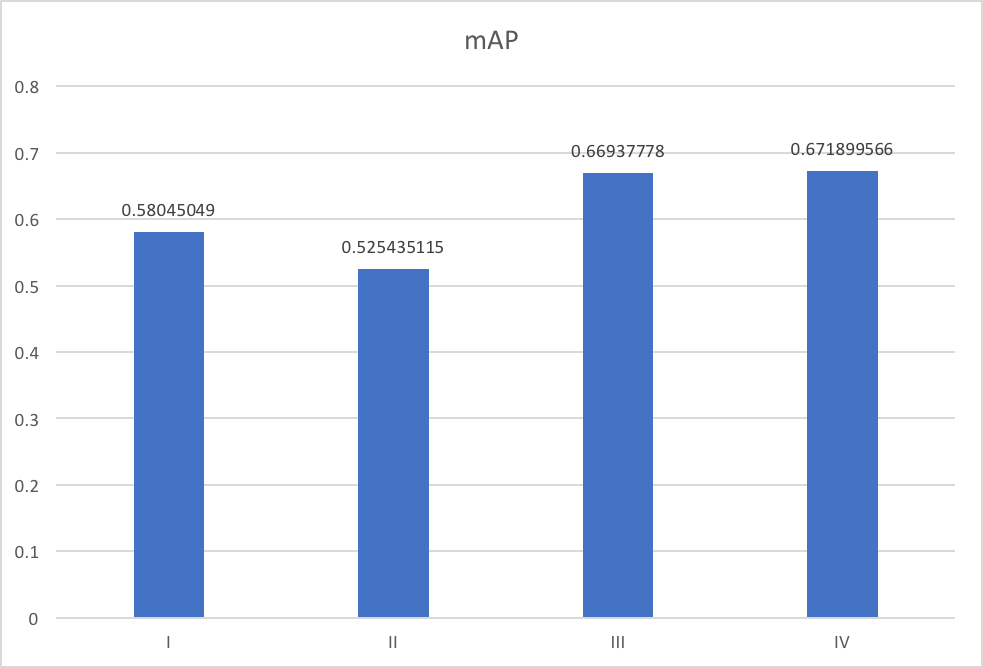
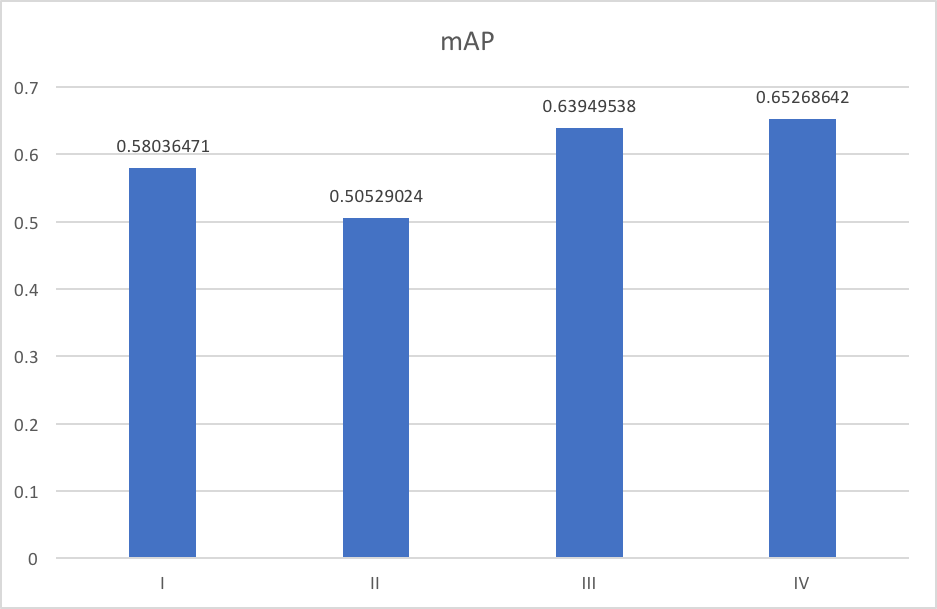
90% report

diff --git a/report/report.tex b/report/report.tex
@@ -542,7 +542,7 @@
 	Hàm lỗi về độ tin cậy có thể được tính theo công thức:
 	\begin{align}
 	L_{conf}(x, c) = - \sum^N_{i \in Pos} x^p_{ij} \log (\hat{c}^p_i) - \sum_{i \in Neg} \log (\hat{c}^0_i)
-	\end{align}
+N_u	\end{align}
 	
 	Với \begin{align}\hat{c}_i^p = \frac{\exp{c_i^p}}{\sum_p \exp{c)i^p}}\end{align}
 	
@@ -685,11 +685,20 @@
 	
 	\newpage
 	\section{Mô hình đề xuất}
-	
+	\label{sec: mohinhdexuat}
 	\subsection{Tổng quan}
-	
-	Nhóm quyết định sử dụng mạng SSD\cite{liu2016ssd} để phát hiện các ký tự trong ảnh và sau đó sử dụng bộ phân tích cú pháp DRACULAE\cite{zanibbi} để sinh ra chuỗi Latex.
-	
+	Để giải quyết đề tài, nhóm chọn hướng tiếp cận là thực hiện tuần tự 2 quá trình nhận dạng ký tự và phân tích cấu trúc. Quy trình thực hiện như hình bên dưới.
+	\begin{center}
+		
+		\centering
+		\includegraphics[width=0.8\linewidth]{overview}
+		\vspace{0.5cm}
+		\captionof{figure}{Mô hình phương pháp.}
+	\end{center}
+	\begin{itemize}
+		\item Ở bước nhận dạng ký tự, ảnh đầu vào là ảnh xám sẽ qua mạng SSD\cite{liu2016ssd} để tạo ra một danh sách các nhãn và bounding box được kỳ vọng là tương ứng với các ký tự có trong ảnh.
+		\item Với giai đoạn phân tích cấu trúc, từ danh sách nhãn và bounding box trả ra từ giai đoạn trước, sử dụng bộ phân tích cấu trúc DRACULAE \cite{zanibbi} để sinh ra chuỗi Latex.
+	\end{itemize}
 	\subsection{Nhận diện ký tự}
 	
 	\subsubsection{Mạng cơ sở}
@@ -973,7 +982,7 @@
 	\end{itemize}
 	\subsubsection{Xây dựng tập biểu thức}
 	Để phục vụ quá trình huấn luyện của mạng SSD được nêu trong Chương 4, ngoài tập ký tự nhóm cần phải xây dựng thêm tập ảnh các biểu thức Toán học viết tay.\\
-	\subsubsubsection{Quá trình thu thập dữ liệu bao gồm các công việc:}
+	\subsubsubsection{Quá trình thu thập dữ liệu}
 	\begin{itemize}
 		\item Tạo biểu mẫu để thu dữ liệu. Biễu mẫu này có 6 hàng và 2 cột như hình bên dưới. 
 		\begin{center}
@@ -997,7 +1006,7 @@
 			\vspace{0.5cm}
 			\captionof{figure}{Ví dụ một mẫu thu thập được từ người tham gia viết.}
 		\end{center}
-		\item Tập hợp lại các biểu mẫu sau khi cho người tham gia viết rồi mang đi scan. Sau đó xử lý qua một đoạn mã Matlab\cite{qak}\footnote{Đoạn mã này đã được chỉnh sửa để phù hợp với hình dạng mẫu lấy biểu thức của nhóm.} để từ một ảnh gồm nhiều biểu thức thu được ảnh chỉ chứa đúng một biểu thức như hình bên dưới.
+		\item Tập hợp lại các biểu mẫu sau khi cho người tham gia viết rồi mang đi scan. Sau đó xử lý qua một đoạn mã Matlab\cite{qak}\footnote{Đoạn mã này đã được chỉnh sửa để phù hợp với hình dạng mẫu lấy biểu thức của nhóm.} để từ một ảnh gồm nhiều biểu thức thu được ảnh chỉ chứa đúng một biểu thức như hình bên dưới. Ảnh này là ảnh xám, với kích thước $300\times300$.
 		\begin{center}
 			\centering
 			\includegraphics[width=0.5\linewidth]{EXP_2017_072_2A.png}
@@ -1012,10 +1021,15 @@
 			\captionof{figure}{Giao diện công cụ hỗ trợ quá trình gán nhãn và xác định bounding boxes. }
 		\end{center}
 	\end{itemize}
-	\subsubsubsection{Thông tin mô tả tập dữ liệu biểu thức:}
+	\subsubsubsection{Thông tin mô tả tập dữ liệu biểu thức}
 	\begin{itemize}
 		\item Số người tham gia: khoảng 88 
 		\item Số lượng ảnh\footnote{Mỗi ảnh chỉ chứa một biểu thức.}:  2256. Trong đó có 1746 ảnh dùng cho training, 138 ảnh dùng cho quá trình validation và 372 ảnh để test.
+		Trong đó, 372 ảnh test được thu thập từ 2 nguồn:
+		\begin{itemize}
+		 	\item 192 ảnh được viết bởi người chưa từng tham gia viết cho quá trình thu thập ảnh cho huấn luyện.
+		 	\item 102 ảnh còn lại được viết bởi 15 người đã tham gia quá trình thu thập ảnh cho huấn luyện.
+		\end{itemize}
 		\item Số loại biểu thức: khoảng 552
 		\item Tổng số ký tự trong tập huấn luyện: 13697
 		\item Tổng số ký tự trong tập kiểm tra: 2237
@@ -1023,16 +1037,18 @@
 	\end{itemize}
 	Hình minh hoạ cho sự phận phối số lượng ký tự trong từng nhãn đối với tập huấn luyện và tập kiểm tra.
 	\begin{figure}
+	
 		\includegraphics[width=0.475\linewidth]{train_statis.png}
 		\hfill
 		\includegraphics[width=0.475\linewidth]{test_statis.png}
 		\vspace{0.5cm}
 		\captionof{figure}{Sự phân phối ký tự theo từng nhãn đối với tập huấn luyện và tập kiểm tra.}
+		\label{fig: distribution}
 	\end{figure}
 	
 	\newpage
 	\subsection{Xây dựng mô hình}
-	
+	\label{subsec: xaydungmohinh}
 	Do bản chất mạng SSD300\cite{liu2016ssd} gặp rất nhiều khó khăn trong việc nhận dạng ký tự nhỏ do một số lý do:
 	\begin{itemize}
 		\item Trong quá trình matching, các bounding box ground truth khi match với các default box phải có chỉ số Jaccard\cite{Jaccard} lớn hơn 0.5, nhưng kích thước tối thiểu của default box lại là $30 \times 30$ pixel, vì vậy nhiều ký tự nhỏ không thể match được (Trường hợp này xãy ra với hầu hết những ảnh có chữ nhỏ, ví dụ như ảnh dưới)
@@ -1046,15 +1062,12 @@
 		
 		\item Nhiều ký tự có aspect ratio đặc biệt (Ví dụ như ký tự dấu $-$ trong phân số hoặc $\int$) cũng gặp nhiều khó khăn trong việc matching do không đạt được ngưỡng Jaccard\cite{Jaccard}.
 	\end{itemize}
-	
-	Vì vậy, nhóm đã sửa một số thông số để tìm cách giải quyết vấn đề trên, trong nhiều bộ thông số thì có 3 phiên bản nổi bật sẽ được đặc tả bên dưới. Để thuận tiện, nhóm xin phép được đặt tên phiên bản SSD300 nguyên thủy\cite{liu2016ssd} là phiên bản I, và 3 phiên bản được dể xuất sau được đặt tên lần lượt là phiên bản II, III, IV.
+	Vì vậy, nhóm đã sửa một số thông số để tìm cách giải quyết vấn đề trên, trong nhiều bộ thông số thì có 3 phiên bản nổi bật sẽ được đặc tả bên dưới. Để thuận tiện, nhóm xin phép được đặt tên phiên bản SSD300 nguyên thủy\cite{liu2016ssd} với sự thiết lập đã được giới thiệu trong \ref{sec: mohinhdexuat} là phiên bản I, và 3 phiên bản được dể xuất sau được đặt tên lần lượt là phiên bản II, III, IV.
 	
 	\subsubsection{Giảm kích thước các default box - Phiên bản II}
 	
 	Phiên bản này dựa trên phiên bản SSD300 nguyên thủy\cite{liu2016ssd}, chỉ chỉnh sửa kích thước các bounding box thông qua chỉnh hai thông số $s_{min} = 0.08$ và $s_{max} = 0.5$, từ đó danh sách kích thước các default box được thay đổi thành (9, 24, 54, 84, 114, 144, 174). So với phiên bản nguyên thủy, phiên bản này không thể match tốt các ký tự lớn (lớn hơn khoảng $200 \times 200$ pixel). Tuy vậy, đối với bài toán về phát hiện các ký tự trong một ảnh, thì kích thước các ký tự không thể quá lớn, nên những ký tự đặc biệt lớn như vậy có thể được xem xét ở độ ưu tiên thấp hơn.\\
-	
 	Việc thay đổi tham số ở phiên bản này không làm ảnh hưởng lớn đến cấu trúc mạng cũng như quá trình mã hóa, giải mã. Số lượng dự đoán không thay đổi.\\
-	
 	Mục đích chính của thay đổi này là để quá trình matching diễn ra tốt hơn khi kích thước của default box nhỏ nhất là $9 \times 9$, điều này giúp cho những ký tự rất nhỏ vẫn có thể được match, tránh hiện tượng bỏ sót ký tự như mạng SSD300 nguyên thủy\cite{liu2016ssd}.
 	
 	\subsubsection{Giảm kích thước các default box và tăng kích thước ảnh đầu vào - Phiên bản III}
@@ -1064,7 +1077,6 @@
 		\item Thay vì sử dụng ảnh $300 \times 300$ như nguyên thủy, ảnh sẽ được phóng to lên kích thước $500 \times 500$.
 		\item Như ở phiên bản đề xuất trước, nhóm thay đổi $s_{min} = 0.08$ và $s_{max} = 0.5$ từ đó thu được danh sách kích thước (15.0, 40, 80, 120, 160., 200, 240, 280).
 	\end{itemize}
-	
 	Những thay đổi trên có làm thay đổi đến cấu trúc mạng SSD\cite{liu2016ssd}, khi tăng kích thước ảnh đầu vào nghĩa là kích thước của các feature map thu thập được cũng tăng lên, từ đó kéo số lượng dự đoán trong một ảnh tăng lên như bảng dưới.\\
 	
 	\begin{center}
@@ -1087,7 +1099,6 @@
 		\end{tabular}
 		\captionof{table}{Thông tin của các feature map trích được từ mạng SSD đã giảm kích thước default box và tăng kích thước ảnh đầu vào}
 	\end{center}
-	
 	Như vậy với mỗi ảnh, hệ thống sinh ra 24148 dự đoán, gấp gần 3 lần so với ảnh SSD300 nguyên thủy\cite{liu2016ssd}. Với những thay đổi này bounding box thậm chí còn có thể match với những default box nhỏ hơn, bên cạnh đó, mật độ các default box cũng dày đặc hơn nhiều so với mạng SSD nguyên thủy\cite{liu2016ssd}.
 	
 	\subsubsection{Giảm kích thước các default box, tăng kích thước ảnh đầu vào và thêm lớp tích chập - Phiên bản IV}
@@ -1132,7 +1143,6 @@
 		\end{tabular}
 		\captionof{table}{Thông tin của các feature map trích được từ mạng SSD\cite{liu2016ssd} đã giảm kích thước default box, tăng kích thước ảnh đầu vào và tăng số lớp tích chập}
 	\end{center}
-	
 	Lớp Conv\_12 được thêm vào cuối mạng với mục đích tăng độ dài danh sách feature map đưa vào lớp Multibox, điều này giúp trong quá trình matching, các ký tự lớn hơn có thể được match.
 	
 	\subsection{Xây dựng bản thử nghiệm}
@@ -1174,10 +1184,8 @@
 		\item Giảm kích thước bounding box sẽ khiến cho các ký tự lớn "bị hổng", do các bounding box quá lớn khi tính chỉ số Jaccard\cite{Jaccard} với các default box quá nhỏ sẽ không đủ ngưỡng, vì vậy mạng không thể match được các ký tự lớn, từ đó mạng cũng không thể nhận diện các ký tự lớn.
 		\item Mạng có thể nhận diện được các ký tự nhỏ hơn, tuy nhiên các ký tự này cũng không đủ nhỏ để bao phủ phần lớn các ký tự nhỏ có trong tập dữ liệu.
 	\end{itemize}
-	
-	Vì vậy, qua thực nghiệm, phiên bản II đưa ra dự đoán về ký tự nhỏ tốt hơn phiên bản I một ít, nhưng kết quả vẫn còn rất tệ. Tuy vậy đối với những ký tự lớn, phiên bản II tỏ ra yếu hơn so với phiên bản I.
-	
-	Ngược lại với phiên bản II, kết quả của phiên bản III và IV khá tốt, hệ thống đã có thể nhận diện nhiều ký tự rất nhỏ và tương đối chuẩn xác, phiên bản IV hầu như không thua kém phiên bản I trong việc nhận diện ký tự lớn, một số ký tự phiên bản I nhận diện được nhưng phiên bản IV không thể và ngược lại. Để hoàn thiện phiên bản III, IV trong việc nhận diện ký tự lớn, nhóm có đề xuất một hướng đi trong tương lai để cải thiện khả năng nhận diện ký tự lớn này.
+	Vì vậy, qua thực nghiệm, phiên bản II đưa ra dự đoán về ký tự nhỏ tốt hơn phiên bản I một ít, nhưng kết quả vẫn còn rất tệ. Tuy vậy đối với những ký tự lớn, phiên bản II tỏ ra yếu hơn so với phiên bản I.\\
+	Ngược lại với phiên bản II, kết quả của phiên bản III và IV khá tốt, hệ thống đã có thể nhận diện nhiều ký tự rất nhỏ và tương đối chuẩn xác, phiên bản IV hầu như không thua kém phiên bản I trong việc nhận diện ký tự lớn, một số ký tự phiên bản I nhận diện được nhưng phiên bản IV không thể và ngược lại. Để hoàn thiện phiên bản III, IV trong việc nhận diện ký tự lớn, nhóm có đề xuất một hướng đi trong tương lai để cải thiện khả năng nhận diện ký tự lớn này.\\
 	
 	\begin{center}
 		\centering
@@ -1211,10 +1219,6 @@
 		\captionof{figure}{Kết quả dự đoán của 4 phiên bản. Khả năng nhận diện ký tự lớn giảm mạnh ở phiên bản II.}
 	\end{center}
 	
-	
-	
-	
-	
 	\begin{center}
 		\centering
 		\includegraphics[width=0.775\linewidth]{compare_5.png}
@@ -1222,8 +1226,6 @@
 		
 		\captionof{figure}{Kết quả dự đoán của 4 phiên bản. Khả năng nhận diện ký tự lớn ở phiên bản IV không thua kém phiên bản I.}
 	\end{center}
-	
-	
 	Đặc biệt, có nhiều biểu thức có ký tự rất nhỏ nhưng phiên bản IV đã làm việc rất tốt:
 	
 	\begin{center}
@@ -1242,7 +1244,7 @@
 		\item Kích thước default boxes.
 		\item Số lượng default boxes.
 	\end{itemize}
-	Thông tin cụ thể như bảng bên dưới.
+	Thông tin cụ thể đã được trình bày ở phần \ref{subsec: xaydungmohinh} của chương này, bên dưới là bảng tóm tắt.
 	\begin{center}
 		\begin{tabular}{||c | c | c | c | c||} 
 			\hline
@@ -1259,8 +1261,19 @@
 	\end{center}
 	Điều kiện đánh giá:
 	\begin{itemize}
-		\item Cùng một tập ảnh kiểm tra với 372 ảnh. Phân phối số lượng ký tự trên từng nhãn của tập ảnh kiểm tra được thể hiện trong Hình 16.
-		\item Độ đo sử dụng: mAP
+		\item Cùng một tập ảnh kiểm tra với 372 ảnh. Phân phối số lượng ký tự trên từng nhãn của tập ảnh kiểm tra được thể hiện trong Hình \ref{fig: distribution}.
+		\item Độ đo sử dụng: mAP\\
+		Cách tính:\\ Tính precision cho từng nhãn theo công thức\cite{mAP}:
+		\begin{align}
+		precision = \frac{TP}{TP+FP},
+		\end{align}
+		\hspace{2cm}với $TP$ được viết tắt từ $True Positive$\cite{mAP} và $FP$ từ $False Positive$\cite{mAP}.\\
+		Tính trọng số của từng nhãn trong tập dữ liệu kiểm tra theo công thức:
+		\begin{align}
+		class\_weight_i = \frac{N_i}{\sum_{u=0}^{106}N_u},
+		\end{align}
+		\hspace{2cm}với $N_i$ là số lượng ký tự thuộc nhãn $i$.\\
+		mAP là trung bình có trọng số giữa $precision$ và $class\_weight$.
 		\item Điều kiện máy chạy đánh giá:
 		\begin{itemize}
 			\item Hệ điều hành:
@@ -1269,32 +1282,38 @@
 		\end{itemize}
 	\end{itemize}
 	Kết quả đánh giá của 4 phiên bản:
+	\vspace{0.5cm}
 	\begin{center}
 		\begin{tabular}{||c | c | c | c | c||} 
 			\hline
 			phiên bản & I&II&III&IV\\[0.5ex] 
 			\hline\hline
-			mAP&0.58045049&0.525435115&0.66937778&0.671899566\\
+			mAP&0.58036471&0.505290245&0.63949538&0.65268642\\
 			\hline
-			\makecell{Số lượng ký tự\\ nhận dạng được\footnote{Không xét đến sự đúng sai.}}&1581&1054&1837&1920\\
+			\makecell{Số lượng ký tự\\ nhận dạng được}&1581&1054&1837&1920\\
+			\hline
+			\makecell{Số file ảnh\\ không xử lý được}&4/372&8/372&0/372&0/372\\
 			\hline
 		\end{tabular}
 		\captionof{table}{Kết quả mAP của 4 phiên bản thử nghiệm.}
 	\end{center}
+	\vspace{1.5cm}
 	\begin{center}
 		\centering
 		\includegraphics[width=0.775\linewidth]{mAP.png}
 		\vspace{0.5cm}
-		
 		\captionof{figure}{Trực quan kết quả mAP cho 4 phiên bản thử nghiệm.}
 	\end{center}
-	
+	Như vậy, từ mô hình ban đầu- mô hình I- với những thiết lập được giữ y nguyên như \cite{liu2016ssd}, nhóm đã thay đổi để tạo ra được mô hình IV- mô hình tốt nhất của nhóm. Từ đó nâng chỉ số mAP từ khoảng $58\%$ lên khoảng $65\%$. Nhìn vào đánh giá giữa 4 mô hình, rõ ràng thấy được việc thay đổi kích thước ảnh đầu vào và kích thước default box có tác động mạnh đến việc cải thiện độ chính xác của phương pháp. 
 	%%%%%%%%%%%%%%%%%%%%%%%%%%%%%%%%%%%%%
 	%%%%%%%%%%%%%%%%%%%%%%%%%%%%%%%%%%%%%
 	\newpage	
 	\section{Tổng kết}
 	
 	\subsection{Kết luận}
+	Hệ thống nhận dạng biệu thức toán học viết tay mà nhóm đang xây dựng là bước đầu cho một ứng dụng tiện ích sau này đối với các bạn học sinh, sinh viên cũng như với những giáo viên- những người thường xuyên tiếp xúc với các con số, công thức và mong muốn rằng có một sản phẩm nào đó hỗ trợ giải các bài toán không chỉ bằng cách đưa ra đáp số mà còn là hướng dẫn giải từng bước, vẽ đồ thị hàm số hay thậm chí cho phép tương tác lên hình ảnh đồ thị đó, gợi ý họ những đoạn lệnh Latex hay có thể là một ngôn ngữ tương tự từ ảnh của những biểu thức để tiết kiệm thời gian soạn thảo những công thức dài và phức tạp. Ngoài ra, với việc có thể trực quan những đồ thị hàm số hay hướng dẫn giải một số loại bài toán sẽ giúp cho việc dạy và học trở nên sinh động và thuận lợi hơn. Như vậy, rất rất nhiều những ứng dụng có thể phát triển từ hệ thống nhận dạng mà nhóm đang thực hiện. \\
+	Với hệ thống này, nhóm đã sử dụng phương pháp phát hiện và nhận dạng của mạng SSD thay vì những phương pháp phân tách phổ biến như phân tích hình chiếu, phân tích thành phần liên thông để khắc phục những lỗi sai có thể xảy ra khi gặp những ký tự dính nhau, bọc lấy nhau kết hợp với bộ phân tích cấu trúc DRACULAE, hệ thống sẽ giải quyết được nhiều loại công thức phức tạp hơn như những công thức có chứa chỉ số trên, chỉ số dưới,... 
+	Ngoài ra, trong quá trình thực hiện đề tài, nhóm đã phát triển 2 tập dữ liệu viết tay bao gồm 1 tập các ký tự và 1 tập những biểu thức từ đơn giản đến phức tạp. Với tập ký tự, dữ liệu đã lên tới con số 52353 file ảnh còn đối với tập biểu thức, hiện tại nhóm đã có 2256 ảnh. Đây là điều kiện quan trọng để nhóm có thể thực hiện những bước huấn luyện, đánh giá mô hình và cũng là cơ sở cho những đề tài liên quan đến chữ viết tay. 
 	\subsection{Đánh giá ưu, nhược điểm}
 	
 	\subsubsection{Ưu điểm}
@@ -1314,14 +1333,37 @@
 		\item Các ký tự hoàn toàn trùng lên nhau dễ bị bỏ sót (dấu căn).
 	\end{itemize}
 	\subsection{Hướng phát triển trong tương lai}
+	Đến thời điểm kết thúc luận văn, hệ thống mà nhóm xây dựng vẫn còn tồn tại những khuyết điểm và cả những trường hợp mà nhóm chưa có thời gian để kiểm tra. Trong đó nổi lên 2 vấn đề mà nhóm đã tiến hành giải quyết thử và thu được kết quả tốt là việc thu nhỏ nội dung ảnh để có thể khắc phục lỗi sai mà hệ thống mắc phải khi gặp những ký tự quá lớn và tăng cường thêm dữ liệu để giải quyết trực tiếp vô trường hợp chỉ số dưới của 2 ảnh trong tập test không nhận diện được. Ngoài ra vẫn còn nhiều trường hợp khác nữa mà theo nhóm đó là hướng phát triển trong tương lai của đề tài. 
 	
-	Hệ thống còn nhiều điểm có thể cải thiện thêm, trong đó có hai vấn đề nổi bật là mở rộng tập dữ liệu về cả số lượng ảnh và số lượng nhãn và thêm công đoạn tiền xử lý.
+	\subsubsection{Mở rộng tập dữ liệu biểu thức}
+	Trong quá trình đánh giá hệ thống trên tập kiểm tra với mô hình IV, nhóm nhận thấy đối với 2 ảnh bên dưới hệ thống không nhận dạng được chỉ số dưới- cụ thể là số 1. 
+		\begin{center}
+		\centering
+		\includegraphics[width=0.6\linewidth]{M1E1}
+		\vspace{0.5cm}
+		\captionof{figure}{Trường hợp không nhận được chỉ số dưới.}
+		\label{fig: m1}
+	\end{center}
+	Trên nhận định lý do của vấn đề này là do trong tập huấn luyện số lượng mẫu với chỉ số dưới còn ít và thiếu những mẫu mà chỉ số dưới dính vào hệ số của nó, nhóm đã bổ sung thêm 96 ảnh với nội dung cố định là $E_1$ và $M_1$ vào tập huấn luyện và 24 ảnh để kiểm tra với hy vọng sau khi huấn luyện lại với lượng ảnh bổ sung thì tình trạng trong Hình \ref{fig: m1} sẽ được giải quyết.\\
+	Sử dụng kiến trúc mạng theo mô hình IV, sau quá trình huấn luyện với tập dữ liệu đã được thêm mới, nhóm thu được kết quả là cả 24 ảnh kiểm tra đều được nhận dạng đúng.
+	\vspace{1cm}
+	\begin{center}
+		\centering
+		\includegraphics[width=0.7\linewidth]{subfolder}
+		\vspace{0.5cm}
+		\captionof{figure}{ Kết quả nhận dạng chỉ số dưới trên bộ ảnh test mới.}
+	\end{center}
+	Và kết quả trên 2 ảnh gặp lỗi ở Hình \ref{fig: m1}:
+	\begin{center}
+		\centering
+		\includegraphics[width=0.7\linewidth]{M1E1_res}
+		\vspace{0.5cm}
+		\captionof{figure}{ Kết quả nhận dạng sau khi được huấn luyện với dữ liệu bổ sung.}
+	\end{center}
+	Có thể nhận thấy được rằng, ký tự tại vị trí dấu gạch đỏ ở hình bên trái đã được nhận diện, tuy nhiên với hình bên phải thì lại không. 
+	\subsubsection{Khắc phục lỗi nhận dạng sai ở ký tự lớn}
 	
-	\subsubsection{Mở rộng tập dữ liệu}
-	
-	\subsubsection{Công đoạn tiền xử lý}
-	
-	Như nhóm đã đề cập ở phần trước, phiên bản IV hoạt động chưa tốt với những ký tự quá lớn, nắm được điều này, nhóm đã thử thu nhỏ ảnh và tiến hành chèn thêm (padding) vào ảnh đã thu nhỏ đó để vẫn được ảnh có kích thước $500 \times 500$ 
+	Như nhóm đã đề cập ở phần trước, phiên bản IV hoạt động chưa tốt với những ký tự quá lớn, nắm được điều này, nhóm đã thử thu nhỏ ảnh và tiến hành chèn thêm (padding) vào ảnh đã thu nhỏ đó để nội dung ảnh thì nhỏ lại nhưng kích thước ảnh không đổi, vẫn $500 \times 500$.
 	
 	\begin{center}
 		\centering
@@ -1340,18 +1382,24 @@
 		
 		\captionof{figure}{Kết quả thu được sau khi thu nhỏ nội dung ảnh.}
 	\end{center}
-	
-	Vì vậy, nhóm tin rằng có thể thêm vào hệ thống một bộ phận tiền xử lý có nhiệm vụ tự động thu nhỏ nội dung ảnh nếu cần và nếu phù hợp
+	Vì vậy, một trong những điều cần được thực hiện ngay trong tương lai là tối ưu hoá bộ tiền xử lý để xử lý linh hoạt cho những ảnh có nội dung lớn và nhỏ khác nhau. Từ đó tạo ra bộ ảnh đầu vào phù hợp cho hệ thống.
+	%Vì vậy, nhóm tin rằng có thể thêm vào hệ thống một bộ phận tiền xử lý có nhiệm vụ tự động thu nhỏ nội dung ảnh nếu cần và nếu phù hợp.
 	
 	\subsubsection{Các hướng phát triển khác}
-	
-	Ngoài ra, hệ thống vẫn còn nhiều điểm có thể cải thiện thêm, trong tương lai, có thể:
+	Như đã đề cập ở đầu mục này, vẫn còn nhiều trường hợp mà nhóm không có đủ thời gian để kiểm tra trong giai đoạn luận văn. Đây cũng là những hướng đi mà trong tương lai nhóm cần phải thực hiện. Cụ thể, nhóm chưa kiểm tra được liệu hệ thống của mình có thể hoạt động tốt trong các tình huống sau:
+	\begin{itemize}
+		\item Ảnh chứa đựng các ký tự nghiêng.
+		\item Ảnh có nhiễu.
+		\item Ảnh với nền khác màu trắng.
+		\item Ảnh chụp thay vì scan.
+		
+	\end{itemize}
+	\vspace{1cm}
+	Ngoài ra, cũng còn những điều cần hoàn thiện:
 	\begin{itemize}
 		\item Thêm phần hậu xử lý ở các giai đoạn nhận diện ký tự và sinh cây Lexed - BST.
 		\item Cải thiện khả năng nhận diện các ký tự có aspect ratio đặc biệt.
-		\item Đưa biểu thức đã nhận dạng được vào ứng dụng (Như có thể vẽ đồ thị, giải phương trình).
 	\end{itemize}
-	
 	
 	
 	\newpage
